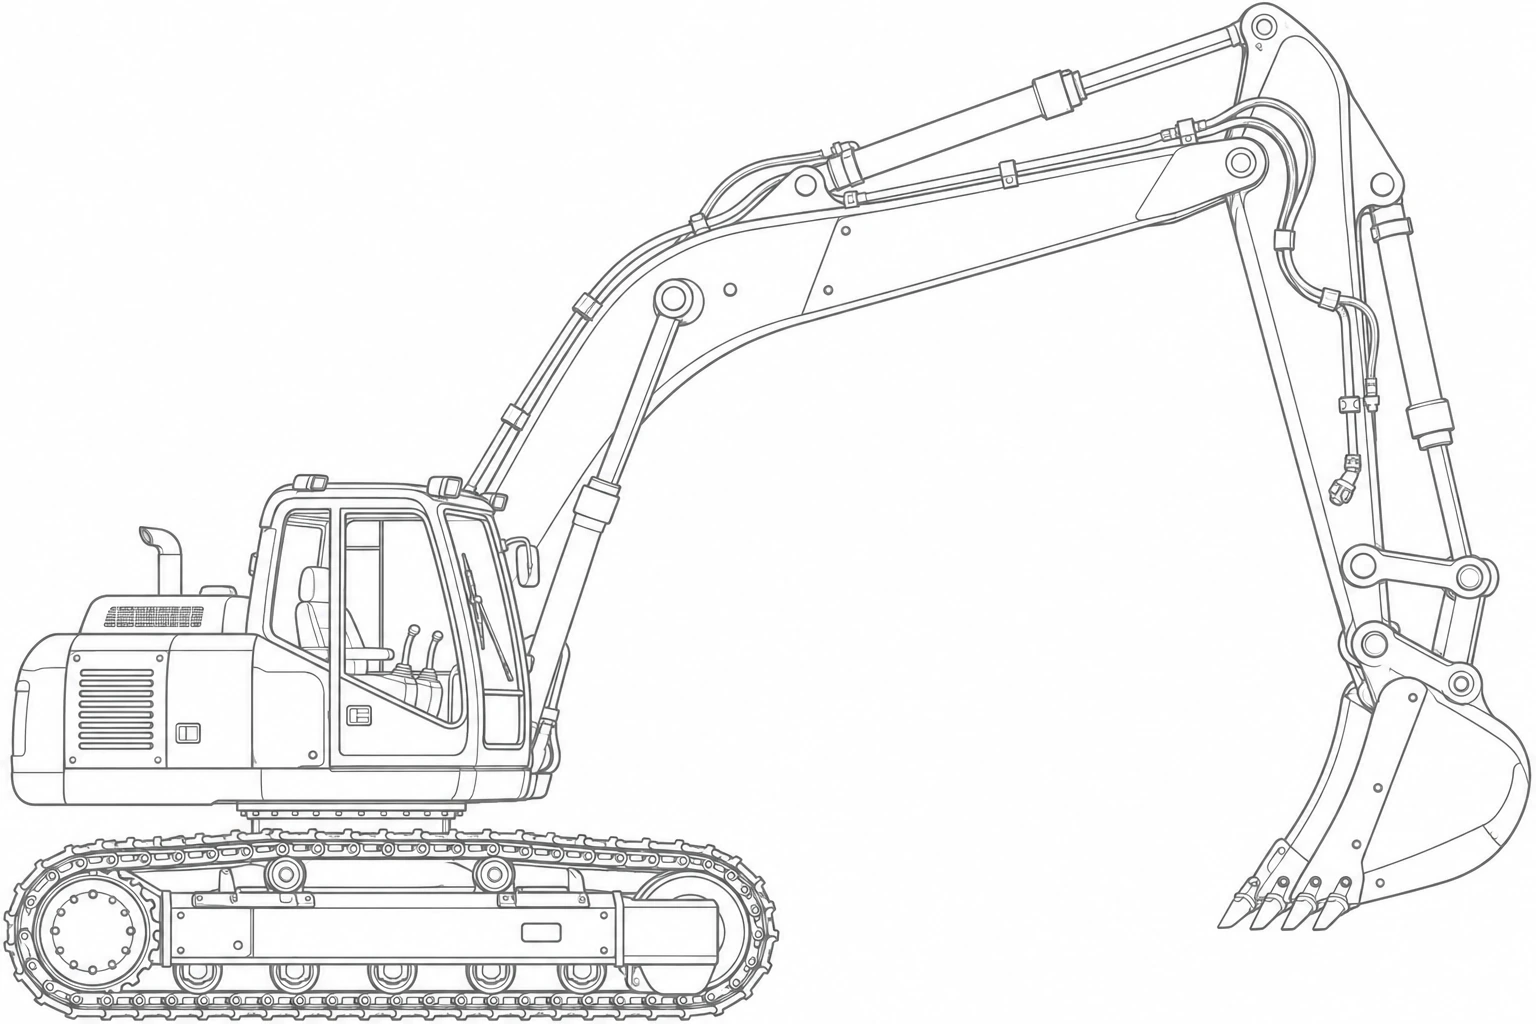
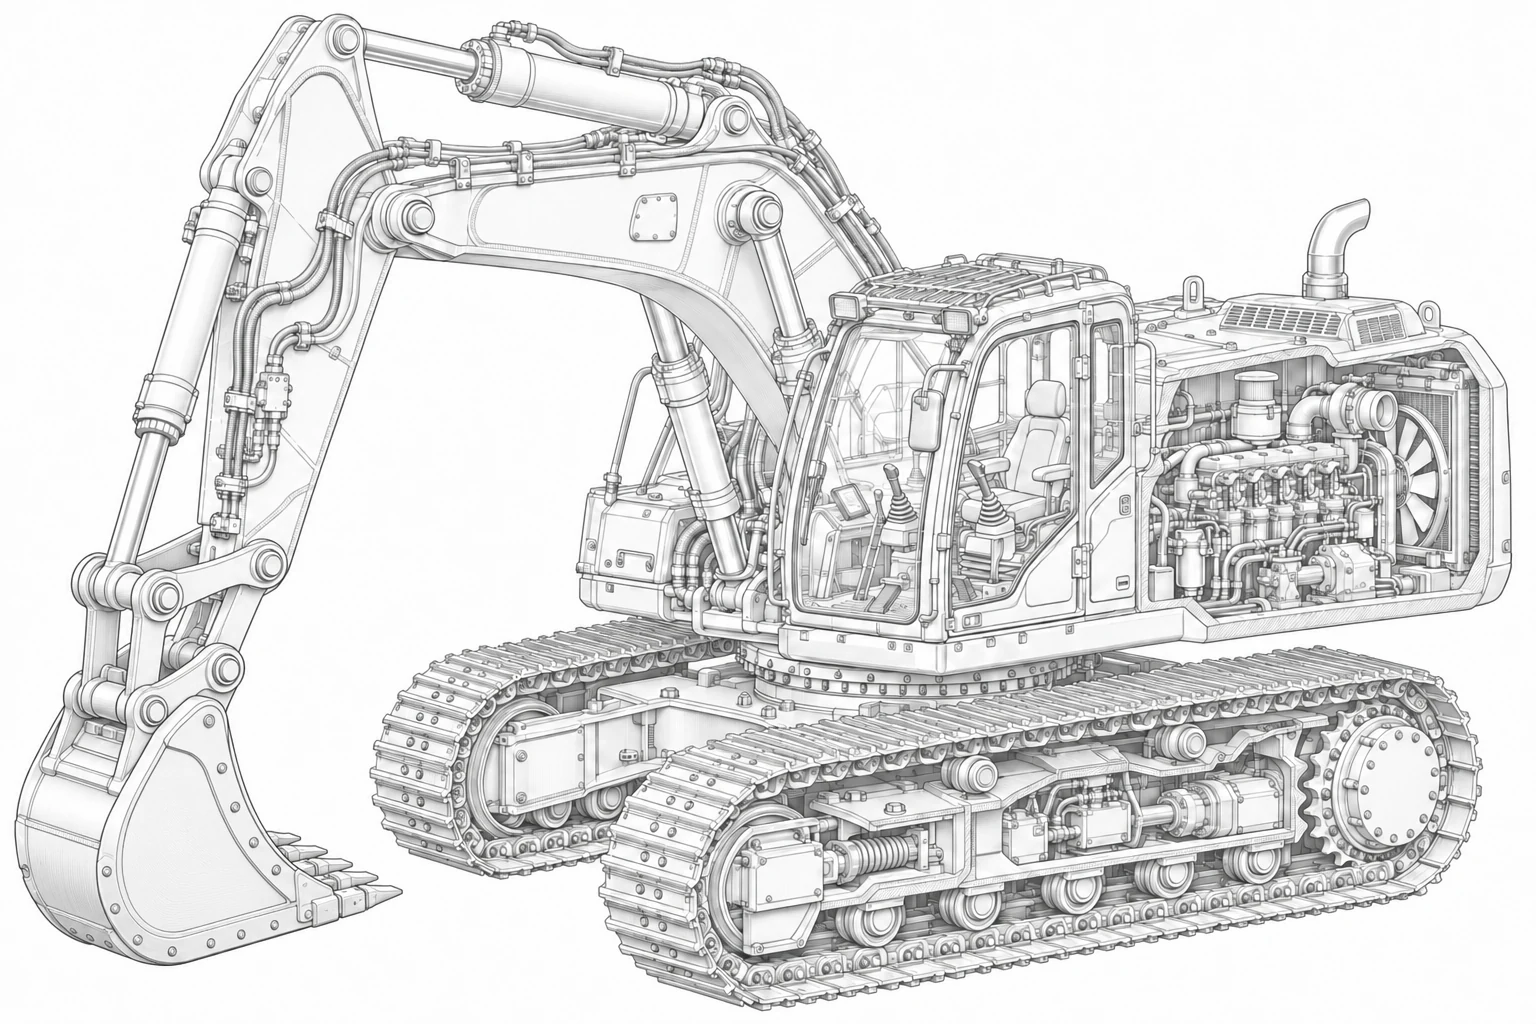
Add detailed V2 excavator background with subtle parallax

diff --git a/opencart/designs/v2-search/design.css b/opencart/designs/v2-search/design.css
@@ -106,7 +106,8 @@
   display: flex; align-items: center; justify-content: center;
 }
 .v2-home main { display: flex; }
-.v2-excavator { position: absolute; z-index: -1; pointer-events: none; width: min(1510px, 100%); max-width: none; height: 100%; inset: 0; margin: auto; object-fit: contain; opacity: .055; mix-blend-mode: multiply; }
+.v2-excavator-layer { position: absolute; z-index: -1; inset: 0; overflow: clip; pointer-events: none; }
+.v2-excavator { position: absolute; pointer-events: none; width: min(1510px, 100%); max-width: none; height: 100%; inset: 0; margin: auto; object-fit: contain; opacity: .095; mix-blend-mode: multiply; }
 .v2-home-content { display: flex; align-items: center; flex-direction: column; padding: 36px 24px 32px; width: 100%; }
 .v2-home-brand { display: block; width: 330px; max-width: 60vw; }
 .v2-home-brand img { display: block; width: 100%; height: 129px; object-fit: contain; }
@@ -212,11 +213,14 @@
   .v2-partners { gap: 10px 18px; margin-top: 30px; }
   .v2-partner { flex-basis: calc((100% - 36px) / 3); min-width: 80px; }
   .v2-partner img { width: 93px; height: 25px; }
-  .v2-excavator { width: 900px; max-width: 100%; object-fit: cover; opacity: .045; object-position: 46% center; }
+  .v2-excavator { width: 900px; max-width: 100%; object-fit: cover; opacity: .065; object-position: 46% center; }
   .v2-footer-row > span, .v2-footer-row a { font-size: 12px; }
   .v2-footer-nav { gap: 2px 20px; }
   .v2-footer-meta { justify-content: flex-start; }
   .v2-inner-search .search-box input { font-size: 16px; }
   .v2-storefront .page-shell { padding-top: 0; }
   .v2-storefront .request-line { padding: 12px; }
+}
+@media (prefers-reduced-motion: reduce) {
+  .v2-excavator { transform: none !important; }
 }

diff --git a/opencart/dev/v2-check.py b/opencart/dev/v2-check.py
@@ -44,7 +44,7 @@ def check(runtime, owner, integration=True):
             "The existing search API did not return the synthetic known SKU.")
     counts["http"] += 1
     for name in ("storefront.mjs", "cart.mjs", "request.mjs", "parts-list.mjs", "v2-search/design.css",
-                 "v2-search/images/excavator-drawing.webp", "v2-search/images/search.svg"):
+                 "v2-search/images/excavator-drawing.webp", "v2-search/images/search.svg", "v2-search/parallax.mjs"):
         status, body = runtime.request("/extension/cmteh/catalog/view/assets/" + name)
         require(status == 200 and len(body) > 20, "Missing installed asset: " + name)
         counts["http"] += 1

diff --git a/opencart/dev/v2-local.py b/opencart/dev/v2-local.py
@@ -109,6 +109,7 @@ mkdir -p "$templates/v2" "$assets"
 cp -a "$source/templates/." "$templates/v2/"
 cp "$source/entry.twig" "$templates/layout.twig"
 cp "$source/design.css" "$assets/design.css"
+cp "$source/parallax.mjs" "$assets/parallax.mjs"
 if [ -d "$source/images" ]; then cp -a "$source/images" "$assets/"; fi
 """)
     print("PASS: V2 presentation applied to its own local installed copy.")

diff --git a/opencart/designs/v2-search/README.md b/opencart/designs/v2-search/README.md
@@ -20,7 +20,7 @@ python opencart/dev/v2-local.py --runtime-dir D:/codex/temp/cmteh-v2-search-2026
 
 Если Docker сообщает об исчерпании стандартных address pools, не удаляйте чужие сети. После проверки существующих Docker-сетей и маршрутов задайте штатный `CMTEH_DOCKER_SUBNET` со свободной приватной /28 при первом запуске. Существующий runtime сохраняет её в `network.json`. Для данного экземпляра использована `10.231.93.0/28`; для другой чистой копии нужна другая свободная подсеть. Повторный запуск текущего экземпляра не требует переменной.
 
-Для применения только новых Twig/CSS/изображений без миграций и импорта:
+Для применения только новых Twig/CSS/JS/изображений без миграций и импорта:
 
 ```text
 python opencart/dev/v2-local.py --runtime-dir D:/codex/temp/cmteh-v2-search-20261112 --port 3162 refresh
@@ -41,6 +41,8 @@ python opencart/dev/v2-check.py --runtime-dir D:/codex/temp/cmteh-v2-search-2026
 Это затронутый локальный checkset: ownership safety, настоящее HTTP-rendering/API, существующие catalog/warehouse/quote PHP/MySQL suites, неизменность исходников и точных файлов default V1 extension archive. Он не заменяет строгий production verifier, host acceptance или recovery. После CSS/Twig fix для узкой повторной проверки есть `--http-only`; это явно не повтор всего набора. Визуальную проверку 1440/1024/390px и пользовательские сценарии выполняет лид в браузере владельца, не в отдельном Playwright browser.
 
 ## Устройство
+
+Фон главной обновлён 2026-11-16: подробный экскаватор в три четверти, ковш боком и зубьями к кабине. После замечания владельца фон приглушён до opacity 0.095 на компьютере и 0.065 на телефоне. Декоративный `parallax.mjs` подключается только на главной V2: указатель смещает рисунок максимум на ±9/±6px, прокрутка — до 10px. Плавное движение останавливается в покое, в скрытой вкладке и при `prefers-reduced-motion`; на touch нет реакции на указатель. Отдельный слой обрезает только фон, не поисковые подсказки. Новых зависимостей, доступа к датчикам, настроек админки или бизнес-изменений нет.
 
[1 lines of base64/hex data omitted]
 

diff --git a/.autopilot/PROGRESS.md b/.autopilot/PROGRESS.md
@@ -42,5 +42,6 @@
 
 ## Правки без автопилота
 
+- 2026-11-16 — V2: установлен согласованный подробный 3D-чертёж экскаватора; по замечанию владельца ковш исправлен, зубья направлены к кабине, к зрителю повернута боковая стенка. После первого preview фон дополнительно приглушён (desktop .095/mobile .065), параллакс уменьшен до ±9/±6px мышью и 10px прокруткой. CSS/JS/изображение меняются только в V2 overlay; launcher копирует дополнительный декоративный JS, default extension не меняется. Проверки: 5 safety + 25 HTTP/API/assets + 127 exact default package files PASS; JS syntax PASS; изолированный VM behavior check reduced-motion load/change, idle/hidden/pagehide cancellation и touch/scroll bounds PASS. В браузере владельца проверены 1440/1024/390px, desktop pointer и mobile scroll, поиск 1R-1808. После приглушения узко повторены JS/HTTP checks; после исправления только изображения — HTTP image hash/decode и визуальная проверка. Полные backend/Next suites не повторялись, серверной публикации нет.
 - 2026-11-12 — V2 desktop follow-up: владелец попросил дополнительно уменьшить логотип и поиск на компьютере. При ширине >820px логотип главной 250×98px вместо 330×129px, поиск максимум 800×52px вместо 1080×56px; скругления поля/кнопки остаются 16px. Mobile 390px сохраняет форму 52px и логотип 245px. Браузер владельца: 1440/1024/390px проверены, переполнения нет; локальный `refresh` выполнен. Затронутый HTTP/package checkset выполнен отдельно от полных backend/Next.js suites; результат этой проверки — в PR. V1 и бизнес-логика не менялись.
 - 2026-11-12 — V2: по замечанию владельца уменьшена массивность поиска; поле повторяет скругление кнопки (общий CSS token 16px). Убраны унаследованные мобильные высота input 50px и верхний отступ кнопки; форма 52px на 390px, 56px на 1024/1440px, кнопка сохраняет высоту 44px. Только V2 CSS и версия его подключения, без изменения поиска/данных/V1. Проверки: `v2-check.py --http-only` PASS (5 safety, 24 HTTP/API/assets, 127 default files unchanged; полные integration suites не повторялись), `git diff --check` PASS; браузер владельца 390/1024/1440px без горизонтального переполнения, поиск 1R-1808 кнопкой и подсказка RE568158 работают. Локальная V2 обновлена через `refresh`, сохранён мобильный preview.

diff --git a/opencart/designs/v2-search/assets-sources.md b/opencart/designs/v2-search/assets-sources.md
@@ -45,13 +45,19 @@ LIABILITY, WHETHER IN AN ACTION OF CONTRACT, TORT OR OTHERWISE, ARISING FROM,
 OUT OF OR IN CONNECTION WITH THE SOFTWARE OR THE USE OR OTHER DEALINGS IN THE
 SOFTWARE.
 
-## Generated excavator
+## Original generated excavator (superseded 2026-11-16)
 
 `images/excavator-drawing.webp`: 1536×1024, built-in image_gen; inspected for composition and absence of text/branding. Pure white background; medium gray linework, intended CSS opacity around 0.1. Pillow format conversion only, quality 92, method 6. Original PNG: `C:/Users/Alexandr/.codex/generated_images/01a1cf1c-2332-7591-b9ce-4ec6f4504d6d/exec-5a42bfb6-3dfd-4847-b728-345f5901dd60.png`.
 
 Exact generation prompt:
 
 Use case: illustration-story. Asset type: standalone decorative website background technical drawing, landscape 1536x1024. Draw one complete tracked hydraulic excavator in neutral gray engineering linework on pure white background. Composition: side profile excavator facing right, tracked undercarriage and engine body in lower-left quarter, cab at left, long boom arches up toward top-right, stick and bucket descending at far right. The excavator spans almost the full canvas, keep broad central area mostly white/empty for a search interface overlay. Thin precise mechanical outlines, believable tracked excavator geometry with hydraulic cylinders, track rollers and panel seams, line drawing only with no solid fills, no shading, no scene or ground. Use clear medium-gray lines with sufficient contrast; website will later display at 10% opacity. No text, no labels, no dimensions, no branding, no logo, no watermark, no grids. This is only the background excavator drawing, do not draw any webpage/UI, search bar or buttons.
+
+## Current detailed excavator — 2026-11-16
+
+The owner selected the detailed three-quarter-view concept, then requested a mechanically aligned bucket: side wall towards the viewer and teeth facing the cab. Built-in `image_gen` edited the supplied concept; the engine and tracked assemblies remain detailed. This is decorative artwork, not a service/engineering document.
+
[1 lines of base64/hex data omitted]
 
 ## Validation
 
